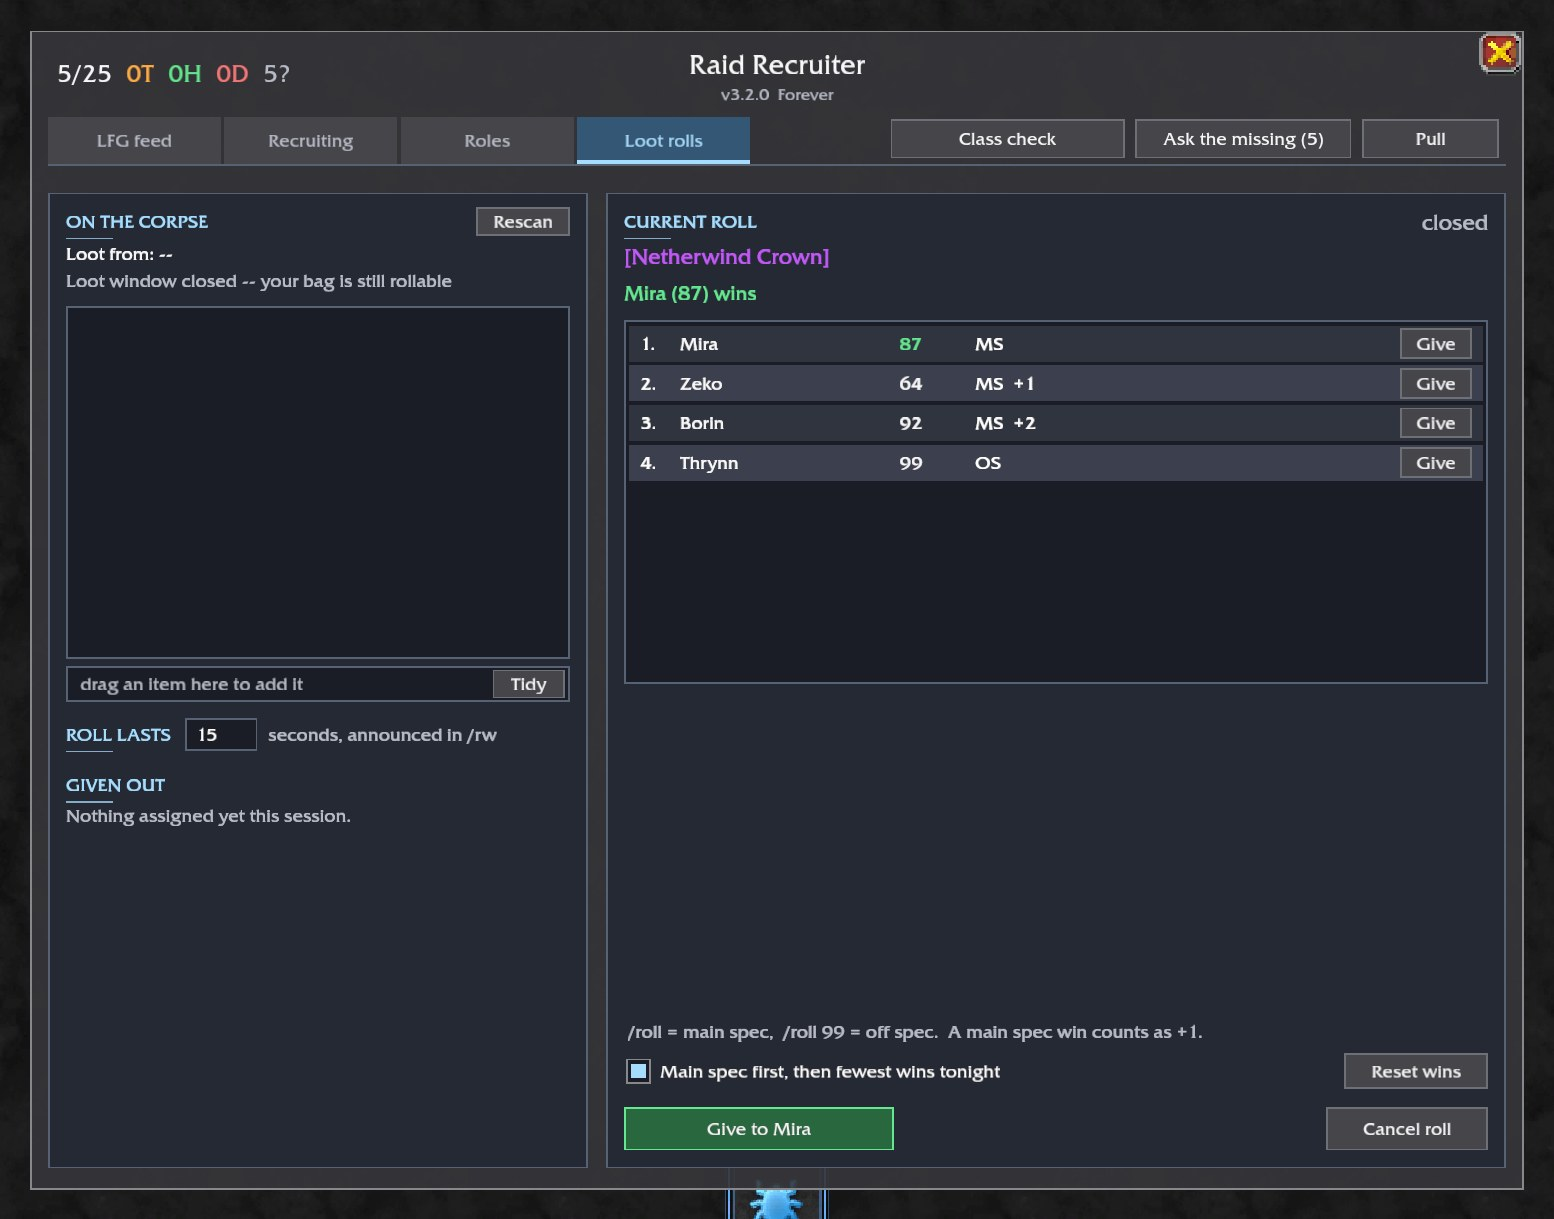
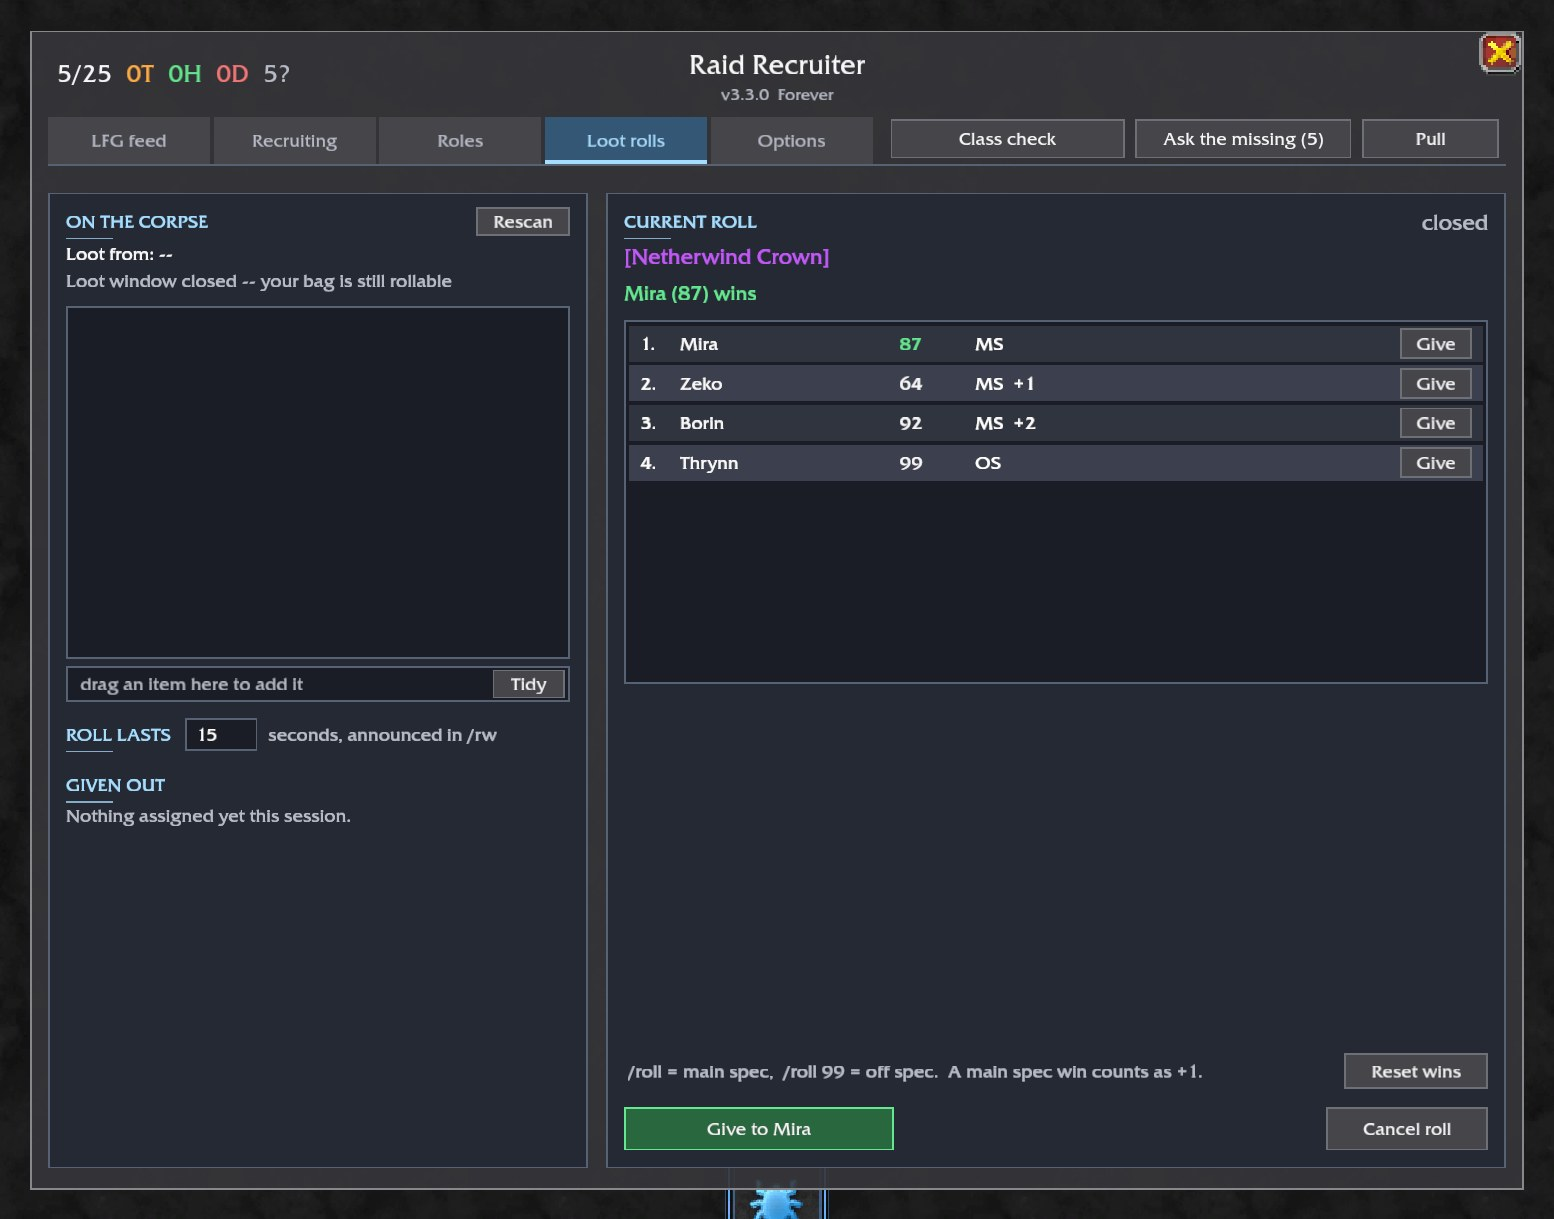
Raid Recruiter 3.3.0: Options page, new pictures

diff --git a/addons/raid-recruiter.html b/addons/raid-recruiter.html
@@ -32,17 +32,17 @@
       <p class="kind">Groups &amp; raids · WoW: Forever</p>
       <h1>Raid Recruiter</h1>
       <p class="lead">Raid leader&#x27;s window for WoW: Forever. LFG feed: who is posting LFG, LFM and trade in your channels, with whisper and invite buttons. Recruiting: your LFM message to the channels you pick, and everyone who whispers you in a sortable list with item level and role. Roles, class check, loot rolls with hand-out by master loot or trade, and a pull timer. /rr</p>
-      <div class="buttons"><a class="btn primary" href="https://github.com/DenoHearth/RaidRecruiter/releases/latest">Download v3.2.0</a><a class="btn" href="https://github.com/DenoHearth/RaidRecruiter">Source on GitHub</a></div>
+      <div class="buttons"><a class="btn primary" href="https://github.com/DenoHearth/RaidRecruiter/releases/latest">Download v3.3.0</a><a class="btn" href="https://github.com/DenoHearth/RaidRecruiter">Source on GitHub</a></div>
     </div>
   </section>
   <p class="intro">One window for building and running a raid or a dungeon group, written for World of Warcraft: Forever and its addon rules. <code>/rr</code> opens it.</p>
   <section>
     <h2>What it does</h2>
-    <ul class="features"><li><h3>LFG feed</h3><p>Everyone posting LFG, LFM, guild recruitment or trade in the channels you are in: who, which dungeon or raid (classic and Forever&#x27;s own), which roles they ask for, the message. Filter by kind, by role (tank, healer, DPS) and by dungeons or raids; sort by newest or by dungeon; search. Boost and carry ads are hidden by default. Whisper, Who, Invite and Hide (30 minutes) as buttons on every row; nothing happens from a stray click. Guild mates and friends are starred and listed first; people on your ignore list never show. It only reads chat.</p></li><li><h3>Recruiting</h3><p>Write your LFM message, tick the channels, set the interval. Everyone who whispers you lands in a sortable list with item level, level and role taken from what they wrote. Invite, whisper or remove from the row. Someone who joins and leaves comes off the list until they whisper again.</p></li><li><h3>Roles</h3><p>Who in the group is tank, healer or DPS (orange, green, red), set by hand or asked for with a class check in a raid warning. &quot;Ask the missing&quot; calls out the people who have not said.</p></li><li><h3>Loot rolls</h3><p>Put a drop up for roll in /rw, see who rolled what, hand it to the winner by master loot or by trade from your bags.</p></li><li><h3>Pull timer</h3><p>Counts the raid down in raid warnings.</p></li><li><h3>Loot rules</h3><p><code>/roll</code> is main spec, <code>/roll 99</code> is off spec; main spec first, then whoever has won least tonight. One switch on the loot page.</p></li><li><h3>Invite word</h3><p>Whoever whispers your word (default <code>inv</code>) is invited while there is room.</p></li><li><h3>Notes on players</h3><p>That stay between sessions, on the applicant row and in the LFG feed.</p></li></ul>
+    <ul class="features"><li><h3>LFG feed</h3><p>Everyone posting LFG, LFM, guild recruitment or trade in the channels you are in: who, which dungeon or raid (classic and Forever&#x27;s own), which roles they ask for, the message. Filter by kind, by role (tank, healer, DPS) and by dungeons or raids; sort by newest or by dungeon; search. Boost and carry ads are hidden by default. Whisper, Who, Invite and Hide (30 minutes) as buttons on every row; nothing happens from a stray click. Guild mates and friends are starred and listed first; people on your ignore list never show. It only reads chat.</p></li><li><h3>Recruiting</h3><p>Write your LFM message, tick the channels, set the interval. Everyone who whispers you lands in a sortable list with item level, level and role taken from what they wrote. Invite, whisper or remove from the row. Someone who joins and leaves comes off the list until they whisper again.</p></li><li><h3>Roles</h3><p>Who in the group is tank, healer or DPS (orange, green, red), set by hand or asked for with a class check in a raid warning. &quot;Ask the missing&quot; calls out the people who have not said.</p></li><li><h3>Loot rolls</h3><p>Put a drop up for roll in /rw, see who rolled what, hand it to the winner by master loot or by trade from your bags.</p></li><li><h3>Pull timer</h3><p>Counts the raid down in raid warnings.</p></li><li><h3>Options</h3><p>One page for the choices that stay off until you tick them.</p></li><li><h3>Loot rules (MS +1), optional</h3><p><code>/roll</code> is main spec, <code>/roll 99</code> is off spec; main spec first, then whoever has won least tonight. Off until you tick it on the Options page; without it the highest roll wins.</p></li><li><h3>Invite word, optional</h3><p>Whoever whispers your word (default <code>inv</code>) is invited while there is room. Off until you tick it on the Options page.</p></li><li><h3>Notes on players</h3><p>That stay between sessions, on the applicant row and in the LFG feed.</p></li></ul>
   </section>
   <section>
     <h2>Pictures</h2>
-    <div class="gallery"><a class="shot" href="../img/RaidRecruiter-1-lfg-feed.jpg"><img loading="lazy" src="../img/RaidRecruiter-1-lfg-feed.jpg" width="1554" height="1219" alt="Raid Recruiter: Lfg feed"><span>Lfg feed</span></a><a class="shot" href="../img/RaidRecruiter-2-recruiting.jpg"><img loading="lazy" src="../img/RaidRecruiter-2-recruiting.jpg" width="1554" height="1219" alt="Raid Recruiter: Recruiting"><span>Recruiting</span></a><a class="shot" href="../img/RaidRecruiter-3-roles.jpg"><img loading="lazy" src="../img/RaidRecruiter-3-roles.jpg" width="1554" height="1219" alt="Raid Recruiter: Roles"><span>Roles</span></a><a class="shot" href="../img/RaidRecruiter-4-loot-rolls.jpg"><img loading="lazy" src="../img/RaidRecruiter-4-loot-rolls.jpg" width="1554" height="1219" alt="Raid Recruiter: Loot rolls"><span>Loot rolls</span></a><a class="shot" href="../img/RaidRecruiter-5-feed-filters.jpg"><img loading="lazy" src="../img/RaidRecruiter-5-feed-filters.jpg" width="1554" height="1219" alt="Raid Recruiter: Feed filters"><span>Feed filters</span></a></div>
+    <div class="gallery"><a class="shot" href="../img/RaidRecruiter-1-lfg-feed.jpg"><img loading="lazy" src="../img/RaidRecruiter-1-lfg-feed.jpg" width="1554" height="1219" alt="Raid Recruiter: Lfg feed"><span>Lfg feed</span></a><a class="shot" href="../img/RaidRecruiter-2-recruiting.jpg"><img loading="lazy" src="../img/RaidRecruiter-2-recruiting.jpg" width="1554" height="1219" alt="Raid Recruiter: Recruiting"><span>Recruiting</span></a><a class="shot" href="../img/RaidRecruiter-3-roles.jpg"><img loading="lazy" src="../img/RaidRecruiter-3-roles.jpg" width="1554" height="1219" alt="Raid Recruiter: Roles"><span>Roles</span></a><a class="shot" href="../img/RaidRecruiter-4-loot-rolls.jpg"><img loading="lazy" src="../img/RaidRecruiter-4-loot-rolls.jpg" width="1554" height="1219" alt="Raid Recruiter: Loot rolls"><span>Loot rolls</span></a><a class="shot" href="../img/RaidRecruiter-5-feed-filters.jpg"><img loading="lazy" src="../img/RaidRecruiter-5-feed-filters.jpg" width="1554" height="1219" alt="Raid Recruiter: Feed filters"><span>Feed filters</span></a><a class="shot" href="../img/RaidRecruiter-6-options.jpg"><img loading="lazy" src="../img/RaidRecruiter-6-options.jpg" width="1554" height="1219" alt="Raid Recruiter: Options"><span>Options</span></a></div>
   </section>
   <section>
     <h2>Install</h2>

diff --git a/index.html b/index.html
@@ -72,7 +72,7 @@
       <div class="thumb"><img loading="lazy" src="img/RaidRecruiter-1-lfg-feed.jpg" alt=""></div>
       <div class="meta">
         <img class="logo" src="img/raid-recruiter-logo.jpg" alt="" width="56" height="56">
-        <div><h3>Raid Recruiter</h3><p class="kind">Groups &amp; raids · v3.2.0</p></div>
+        <div><h3>Raid Recruiter</h3><p class="kind">Groups &amp; raids · v3.3.0</p></div>
       </div>
       <p>One window for building and running a raid: LFG feed, recruiting, roles, loot rolls.</p>
     </a>
